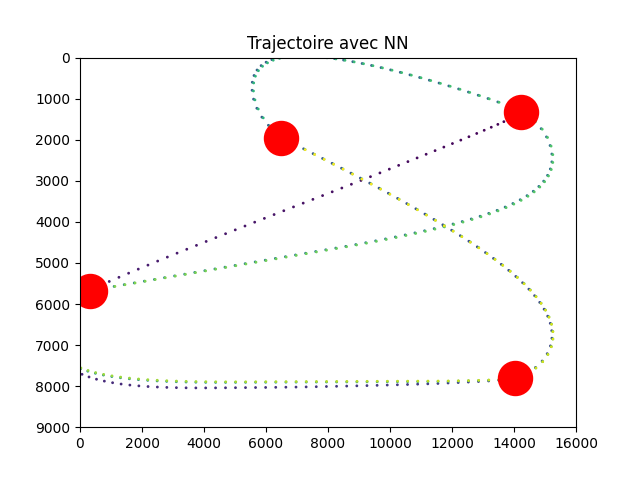
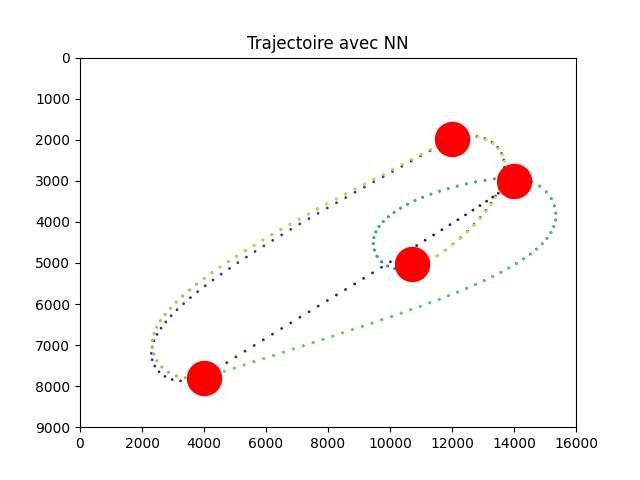
implémentation NN avec méthode monte carlo pour calcul des targets

diff --git a/src/qagentnn.py b/src/qagentnn.py
@@ -9,85 +9,132 @@ from reseau import QNetwork
 import torch
 import torch.nn as nn
 import torch.optim as optim
+from collections import deque
 
-class Qagent:
-    def __init__(self, env, episodes, max_steps,alpha = .7, epsilon = .3, gamma = 0.95, do_test = True, nb_test = 100):
-        self.env= env
-        self.episodes = episodes
-        self.max_steps = max_steps
-        self.alpha = alpha
+
+class GetInformations:
+    def __init__(self,env,nbeps,epsilon = 1,alpha=.7,gamma = 0.95,state_dim=3,action_dim=3):
+        self.triplets = []
+        self.qvalues = []
         self.epsilon = epsilon
-        self.gamma = gamma   
+        self.nbeps = nbeps
+        self.gamma = gamma
+        self.env = env
+        self.state_dim = state_dim 
+        self.action_dim = action_dim
         self.device = torch.device("cuda" if torch.cuda.is_available() else "cpu")
-        print(self.device)
-
-        # Taille de l'état et des actions
-        self.state_dim = 4  # Par exemple, nombre de features de l'état
-        self.action_dim = 3
-
-        # Modèle Q
         self.model = QNetwork(self.state_dim, self.action_dim).to(self.device)
-        self.target = QNetwork(self.state_dim, self.action_dim).to(self.device)
-        self.optimizer = optim.Adam(self.model.parameters(), lr=1e-3)
-        self.loss_fn = nn.SmoothL1Loss()
+        self.max_steps = 100
+        self.alpha = alpha
+        pass
 
-    def train(self):
-        episode_rewards = []
-        for i in tqdm(range(self.episodes)):
-            episode_reward = 0
+
+    def launchSimulation(self):
+        for i in tqdm(range(self.nbeps)):
+
             state, stateM = self.env.reset()
+
             for j in range(self.max_steps):
+
                 action = self.epsilon_greedy(stateM)
                 next_state,next_stateM,reward,terminated = self.env.step(action)
-                episode_reward += reward
-                self.update_q_table(stateM,action,next_stateM,reward)
-                state = next_state
+                self.triplets.append((stateM,action,reward))
+
+                stateM = next_stateM
 
                 if terminated:
-                    print('oui')
                     break
-            episode_rewards.append(episode_reward)
-            # self.epsilon*= 0.995
 
-            # if self.do_test and i%50 ==0:
-            #     mean_steps, mean_reward = self.test()
-            #     self.steps.append((i,mean_steps))
-            #     self.rewards.append((i,mean_reward))
-        return episode_rewards
+                self.epsilon*= 0.995
 
-
-    def test(self):
-
-        steps_per_test = []
-        reward_per_test = []
+        # print("longueur: ",len(self.triplets))
+        # print(self.triplets[:10])
+    
+    def computeQvalues(self):
+        # self.triplets = [([-23.160792907540344, 0.0, 0.0], 0, -0.30000000000000004), ([336.8392070924597, 2562.213886466155, 0.0], 1, -0.30000000000000004), ([336.8453985598685, 2516.2138223926836, 0.0], 2, -0.2), ([336.8246085050306, 2385.214036517478, 0.0], 1, -0.2), ([336.8200341837714, 2228.214083071912, 0.0], 1, -0.2), ([336.80478439236856, 2049.214239653824, 0.0], 2, -0.2), ([336.7631101741998, 1805.214668675169, 0.0], 2, -0.1), ([336.6867171511283, 1506.2154560354238, 0.0], 1, -0.1), ([336.59531044896767, 1206.216398495726, 0.0], 1, -0.1), ([336.44364854051713, 906.2179649510376, 0.0], 1, -0.1)]
         
-        for i in range(self.nb_test):
-            state, stateM = self.env.reset()
-            # Convertir l'état en tenseur et l'envoyer sur GPU
-            state_tensor = torch.tensor(stateM, dtype=torch.float32, device=self.device).unsqueeze(0)
+        self.qvalues = [0]*len(self.triplets)
+        T = len(self.triplets) - 1
+        R = self.triplets[T][2]
+        
+        for i, t in enumerate(reversed(self.triplets[:-1])):
+            ind = T - i - 1
+            R = self.gamma*R + t[2]
+            self.qvalues[ind] = self.qvalues[ind] + self.alpha * (R - self.qvalues[ind])
+        
+        # print(self.qvalues)
 
-            # Tester toutes les actions (one-hot encoding) sur GPU
-            actions = torch.eye(self.action_dim, device=self.device)  # Matrice identité pour one-hot
-            q_values = torch.cat([self.model(state_tensor, a.unsqueeze(0)) for a in actions])
-            pas = 0
-            cum_reward = 0
-            for j in range(self.max_steps):
-                action = torch.argmax(q_values).item()
-                next_state,_,reward,terminated = self.env.step(action)
-                state = next_state
-                cum_reward+= reward
-                pas += 1
-                if terminated:
-                    pas = j
-                    break
-            if pas ==0:
-                pas = self.max_steps
-            steps_per_test.append(pas)
-            reward_per_test.append(cum_reward)
-        return np.mean(steps_per_test), np.mean(reward_per_test)
+    def epsilon_greedy(self, state):
+        
+        if np.random.random() < self.epsilon:
+            return np.random.randint(0, self.env.nb_action)
+
+        # Convertir l'état en tenseur et l'envoyer sur GPU
+        # print("state dim: ", self.state_dim)
+        # print("action dim: ", self.action_dim)
+        
+
+        state_tensor = torch.tensor(state, dtype=torch.float32,device=self.device)
+
+        # Tester toutes les actions (one-hot encoding) sur GPU
+        actions = torch.eye(self.action_dim, device=self.device)  # Matrice identité pour one-hot
+        # print("action_dim: ", actions.shape)
+        # print("state: ",state)
+        # print("state_tensor",state_tensor)
+        # print("state_dimm:",state_tensor.shape)
+        q_values = torch.cat([self.model(state_tensor, a) for a in actions])
+
+        # Choisir l'action avec la plus grande Q-value
+        return torch.argmax(q_values).item()
+
+    
+class train:
+    def __init__(self,env,nIter,state_dim=3,action_dim=3):
+        self.nIter = nIter
+        self.state_dim = state_dim
+        self.action_dim = action_dim
+        self.device = torch.device("cuda" if torch.cuda.is_available() else "cpu")
+        self.model = QNetwork(self.state_dim, self.action_dim).to(self.device)
+        self.info = GetInformations(env,100)
+        self.loss_fn = nn.MSELoss()
+        self.optimizer = optim.Adam(self.model.parameters(), lr=1e-3)
+        pass
+
+    def run(self):
+        losses = []
+        for i in range(self.nIter):
+            self.info.launchSimulation()
+            self.info.computeQvalues()
+
+            states = [ t[0] for t in self.info.triplets]
+
+            actions = [t[1] for t in self.info.triplets]
+            action_one_hot = np.eye(self.action_dim)[actions]
+
+            state_tensor = torch.tensor(states, dtype=torch.float32, device=self.device)
+            action_tensor = torch.tensor(action_one_hot, dtype=torch.float32, device=self.device)
+            target_tensor = torch.tensor(self.info.qvalues, dtype=torch.float32, device=self.device)
+
+            q_value = self.model(state_tensor, action_tensor)
+
+            loss = self.loss_fn(q_value, target_tensor.unsqueeze(1))
+            losses.append(loss.item())
+            self.optimizer.zero_grad()
+            loss.backward()
+            self.optimizer.step()
+
+        print("fini")
+        return losses
+
+class Qagent:
+    def __init__(self, env,model):
+        self.env= env
+        self.action_dim = 3
+        self.state_dim = 3
+        self.device = torch.device("cuda" if torch.cuda.is_available() else "cpu")
+        self.model = model
 
     def one_run(self):
-        
         state, stateM = self.env.reset()
 
         # Convertir l'état en tenseur et l'envoyer sur GPU
@@ -96,102 +143,44 @@ class Qagent:
         # Tester toutes les actions (one-hot encoding) sur GPU
         actions = torch.eye(self.action_dim, device=self.device)  # Matrice identité pour one-hot
         q_values = torch.cat([self.model(state_tensor, a.unsqueeze(0)) for a in actions])
+        terminated = False
 
-        for j in range(self.max_steps):
+        while not terminated:
+
             action = torch.argmax(q_values).item()
-            next_state,next_stateM,reward,terminated = self.env.step(action)
-            # stateM = next_stateM
-            if terminated:
-                break
+            _,_,_,terminated = self.env.step(action)
 
         self.env.show_traj()
 
-
-    def epsilon_greedy(self, state):
-        if np.random.random() < self.epsilon:
-            return np.random.randint(0, self.env.nb_action)
-
-        # Convertir l'état en tenseur et l'envoyer sur GPU
-        state_tensor = torch.tensor(state, dtype=torch.float32, device=self.device).unsqueeze(0)
-
-        # Tester toutes les actions (one-hot encoding) sur GPU
-        actions = torch.eye(self.action_dim, device=self.device)  # Matrice identité pour one-hot
-        q_values = torch.cat([self.model(state_tensor, a.unsqueeze(0)) for a in actions])
-
-        # Choisir l'action avec la plus grande Q-value
-        return torch.argmax(q_values).item()
-
-
-    def update_q_table(self, state, action, next_state, reward):
-        # Convertir les données en tenseurs sur GPU
-        state_tensor = torch.tensor(state, dtype=torch.float32, device=self.device).unsqueeze(0)
-        next_state_tensor = torch.tensor(next_state, dtype=torch.float32, device=self.device).unsqueeze(0)
-
-        action_one_hot = torch.zeros(self.action_dim, device=self.device)
-        action_one_hot[action] = 1
-        action_tensor = action_one_hot.unsqueeze(0)
-
-        # Q-value actuelle
-        q_value = self.model(state_tensor, action_tensor)
-
-        # Calcul de la target (r + γ max Q(s', a'))
-        with torch.no_grad():
-            next_actions = torch.eye(self.action_dim, device=self.device)
-            next_q_values = torch.cat([self.model(next_state_tensor, a.unsqueeze(0)) for a in next_actions])
-            max_next_q = torch.max(next_q_values)
-            target = reward + self.gamma * max_next_q
-
-        # Perte et backpropagation
-        loss = self.loss_fn(q_value, target.unsqueeze(0).to(self.device))
-        self.optimizer.zero_grad()
-        loss.backward()
-        self.optimizer.step()
-
-    def save_rewards(self, filename):
-        commentaire = f"# {datetime.today()}\n# Qlearning:episodes {self.episodes}, max_steps: {self.max_steps}, alpha: {self.alpha}, epsilon: {self.epsilon}, gamma: {self.gamma}"
-        with open(filename, mode="a", newline="") as file:
-            file.write(commentaire)
-            writer = csv.writer(file)
-            for i, reward in self.rewards:
-                writer.writerow([i, reward])
-
-    def save_steps(self, filename):
-        commentaire = f"# {datetime.today()}\n# Qlearning:episodes {self.episodes}, max_steps: {self.max_steps}, alpha: {self.alpha}, epsilon: {self.epsilon}, gamma: {self.gamma}"
-        with open(filename, mode="a", newline="") as file:
-            file.write(commentaire)
-            writer = csv.writer(file)
-            for i, step in self.steps:
-                writer.writerow([i, step])
-
-    def qtable_file(self, filename):
-        with open(filename, 'w') as f:
-            f.write("qtable = [\n")
-            for row in self.qtable:
-                f.write(f"    {repr(row)},\n")
-            f.write("]\n")
-
-    def saveWeights(self):
-        torch.save(self.model.state_dict(), 'weights_qagent.pth')
-
-    def loadWeights(self):
-        self.model.load_state_dict(torch.load('weights_qagent.pth'))
-        self.model.eval() #le mets en mode évaluation pour optimiser les prédictions
-
-
 def main():
-    agent = Qagent(MPR_env(), do_test=False, episodes= 1000, max_steps=100)
-    rewards_pereps = agent.train()
+    # rewards_pereps = agent.train()
 
-    plt.figure()
-    plt.plot(rewards_pereps)
+    # plt.figure()
+    # plt.plot(rewards_pereps)
+    # plt.xlabel('Episodes')
+    # plt.ylabel('cumul Rewards')
+    # plt.title('Rewards per Episode DQN')
+    # plt.savefig('../Graphiques/rewards_per_episode.png')
+
+    # agent.saveWeights()
+    # agent.one_run()
+    # agent.env.show_traj()
+    # agent.env.plot_vitesse()
+
+    traine = train(MPR_env(),10)
+    losses = traine.run()
+
+    plt.plot(losses)
     plt.xlabel('Episodes')
-    plt.ylabel('cumul Rewards')
-    plt.title('Rewards per Episode DQN')
-    plt.savefig('../Graphiques/rewards_per_episode.png')
-
-    agent.saveWeights()
+    plt.ylabel('loss')
+    plt.title('loss per episodes')
+    plt.savefig('../Graphiques/loss_final')
+    agent = Qagent(MPR_env(custom=True), traine.model)
     agent.one_run()
-    agent.env.show_traj()
-    agent.env.plot_vitesse()
+
     
-# main()
+
+
+
+    
+main()

diff --git a/src/env.py b/src/env.py
@@ -65,10 +65,10 @@ class MPR_env():
         #                     self.discretized_distance(dist),
         #                     self.discretized_speed(x,y)]
 
-        # dans le cas continu
+        vitesse = np.sqrt(abs(x - self.past_pos[0])**2 + abs(y - self.past_pos[1])**2)
         next_state_matrix = [angle,
-                            dist,
-                            x,y]
+                        dist,
+                        vitesse]
 
         return next_state,next_state_matrix,reward, self.terminated
     
@@ -92,9 +92,10 @@ class MPR_env():
         #                 self.discretized_speed(x,y)]
 
         # dans le cas continu
+        vitesse = np.sqrt(abs(x - self.past_pos[0])**2 + abs(y - self.past_pos[1])**2)
         state_matrix = [angle,
                         dist,
-                        x,y]
+                        vitesse]
 
         return self.discretized_state(angle,dist, x, y), state_matrix
     

diff --git a/src/reseau.py b/src/reseau.py
@@ -19,10 +19,10 @@ class QNetwork(nn.Module):
         state = state.to(device)
         action = action.to(device)
 
-        # print("state", state)
-        # print("action", action)
+        # print("state", state.shape)
+        # print("action", action.shape)
 
-        x = torch.cat([state.squeeze(0), action.squeeze(0)], dim=-1)  # Concaténation de l'état et de l'action
+        x = torch.cat([state, action], dim=-1)  # Concaténation de l'état et de l'action
         x = torch.relu(self.fc1(x))
         x = torch.relu(self.fc2(x))
         q_value = self.fc3(x)
